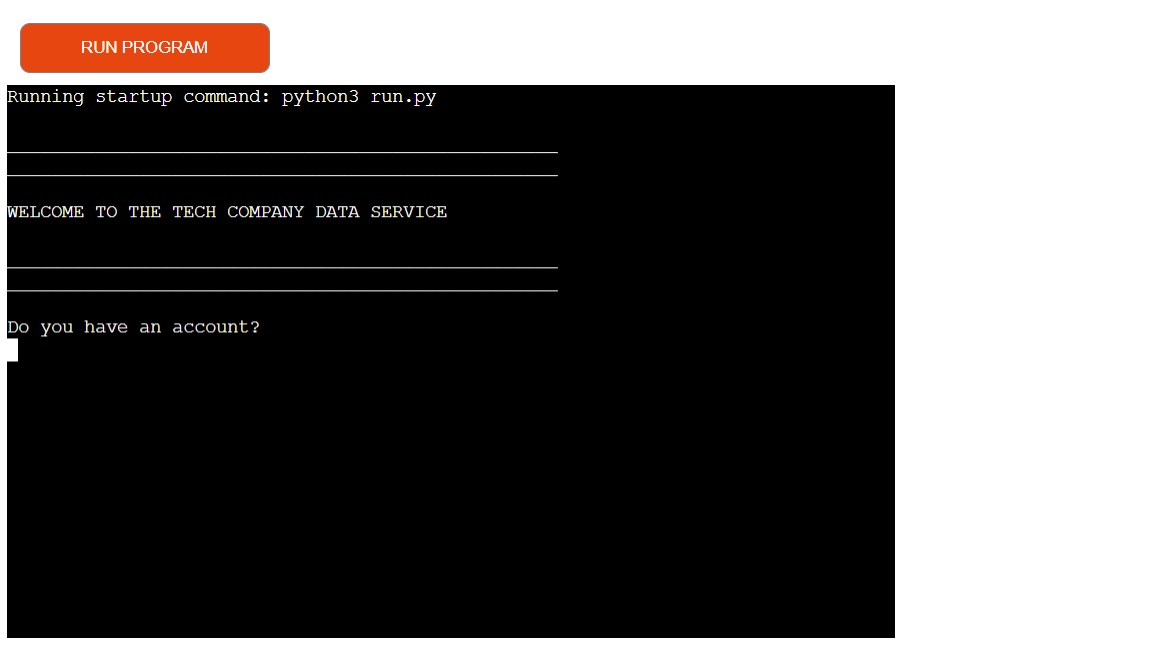
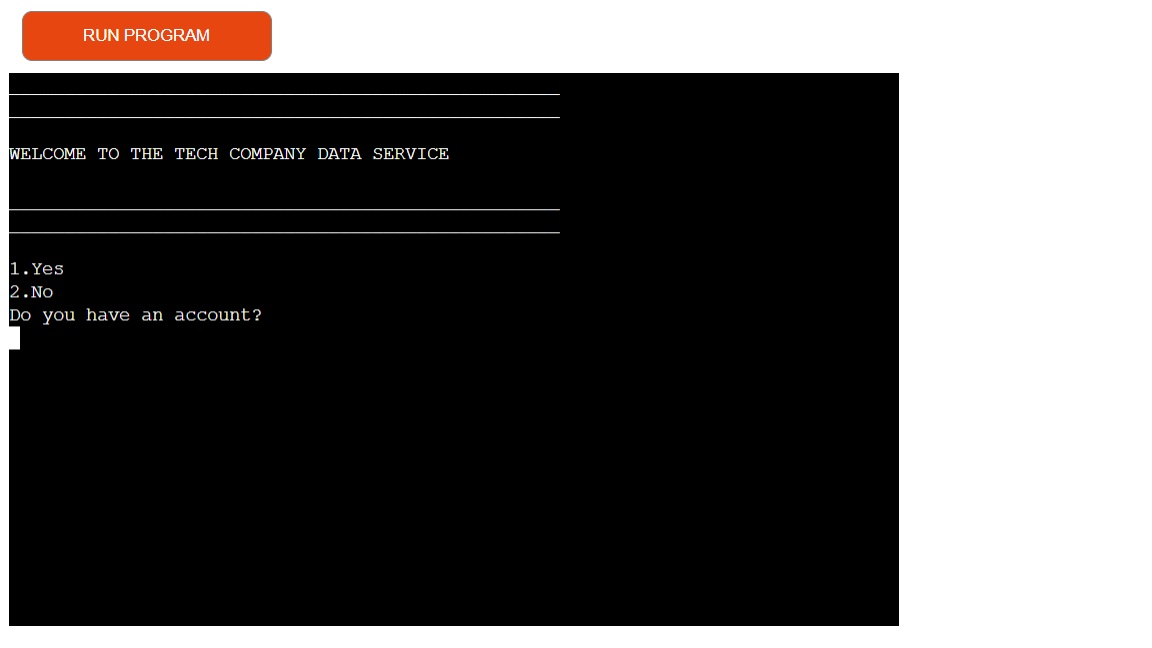
Add supporting screenshots to README.md

diff --git a/README.md b/README.md
@@ -131,6 +131,9 @@ This is an automation designed to view and alter information retrieved from the 
 ## Features
 
 <ul>
+<li>At the begining you will be asked to sign in.</li>
+<details><summary>Login</summary>
+<img src="docs/features/login.jpg">
 <li>As the program begins you will be given a choice on what services you would like to use.</li>
 <details><summary>Choices</summary>
 <img src="#">
